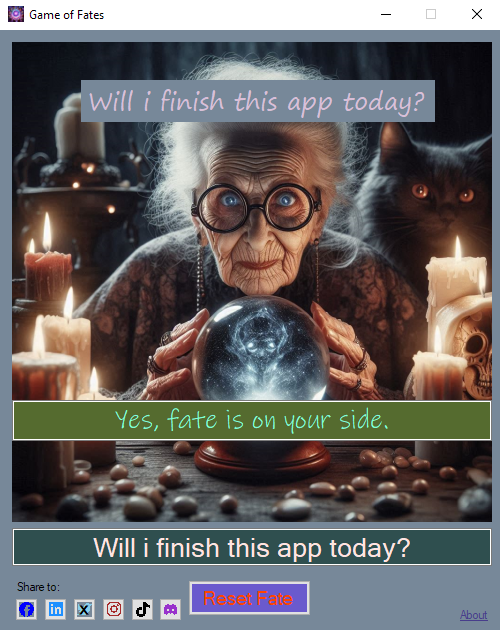
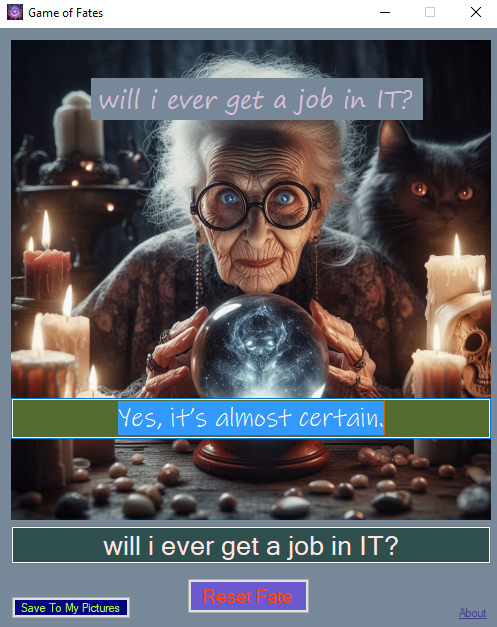
1.0.0.0

diff --git a/GameOfFates.Core/MainForm.Designer.cs b/GameOfFates.Core/MainForm.Designer.cs
@@ -38,13 +38,7 @@
             this.resetButton = new System.Windows.Forms.Button();
             this.linkLabel1 = new System.Windows.Forms.LinkLabel();
             this.labelAfterAsking = new System.Windows.Forms.Label();
-            this.labelShareTo = new System.Windows.Forms.Label();
-            this.buttonFacebook = new FontAwesome.Sharp.IconButton();
-            this.buttonLinkedIn = new FontAwesome.Sharp.IconButton();
-            this.buttonTwitter = new FontAwesome.Sharp.IconButton();
-            this.buttonInstagram = new FontAwesome.Sharp.IconButton();
-            this.buttonTikTok = new FontAwesome.Sharp.IconButton();
-            this.buttonDiscord = new FontAwesome.Sharp.IconButton();
+            this.buttonSaveCard = new System.Windows.Forms.Button();
             ((System.ComponentModel.ISupportInitialize)(this.picBeforeAsking)).BeginInit();
             ((System.ComponentModel.ISupportInitialize)(this.picAfterAsking)).BeginInit();
             this.SuspendLayout();
@@ -94,7 +88,7 @@
             this.predictButton.TabIndex = 5;
             this.predictButton.Text = "Predict!";
             this.predictButton.UseVisualStyleBackColor = false;
-            this.predictButton.Click += new System.EventHandler(this.PredictClick);
+            this.predictButton.Click += new System.EventHandler(this.Predict_Click);
             // 
             // askMeAnythingLabel
             // 
@@ -119,7 +113,7 @@
             this.fateOutputTextBox.ScrollBars = System.Windows.Forms.ScrollBars.Horizontal;
             this.fateOutputTextBox.Size = new System.Drawing.Size(480, 41);
             this.fateOutputTextBox.TabIndex = 7;
-            this.fateOutputTextBox.Text = "...";
+            this.fateOutputTextBox.Text = "The mystic\'s gaze deepens...";
             this.fateOutputTextBox.TextAlign = System.Windows.Forms.HorizontalAlignment.Center;
             this.fateOutputTextBox.Visible = false;
             this.fateOutputTextBox.TextChanged += new System.EventHandler(this.FateAnswer_TextChanged);
@@ -136,7 +130,7 @@
             this.resetButton.Text = "Reset Fate";
             this.resetButton.UseVisualStyleBackColor = false;
             this.resetButton.Visible = false;
-            this.resetButton.Click += new System.EventHandler(this.ResetFateClick);
+            this.resetButton.Click += new System.EventHandler(this.ResetFate_Click);
             // 
             // linkLabel1
             // 
@@ -166,99 +160,18 @@
             this.labelAfterAsking.Visible = false;
             this.labelAfterAsking.Click += new System.EventHandler(this.QuestionAfterBeingAskedLabel);
             // 
-            // labelShareTo
+            // buttonSaveCard
             // 
-            this.labelShareTo.AutoSize = true;
-            this.labelShareTo.Location = new System.Drawing.Point(14, 550);
-            this.labelShareTo.Name = "labelShareTo";
-            this.labelShareTo.Size = new System.Drawing.Size(50, 13);
-            this.labelShareTo.TabIndex = 12;
-            this.labelShareTo.Text = "Share to:";
-            this.labelShareTo.Visible = false;
-            this.labelShareTo.Click += new System.EventHandler(this.labelShareTo_Click);
-            // 
-            // buttonFacebook
-            // 
-            this.buttonFacebook.BackColor = System.Drawing.Color.LightSlateGray;
-            this.buttonFacebook.IconChar = FontAwesome.Sharp.IconChar.Facebook;
-            this.buttonFacebook.IconColor = System.Drawing.Color.Blue;
-            this.buttonFacebook.IconFont = FontAwesome.Sharp.IconFont.Auto;
-            this.buttonFacebook.IconSize = 20;
-            this.buttonFacebook.Location = new System.Drawing.Point(15, 568);
-            this.buttonFacebook.Name = "buttonFacebook";
-            this.buttonFacebook.Size = new System.Drawing.Size(23, 23);
-            this.buttonFacebook.TabIndex = 13;
-            this.buttonFacebook.UseVisualStyleBackColor = false;
-            this.buttonFacebook.Visible = false;
-            // 
-            // buttonLinkedIn
-            // 
-            this.buttonLinkedIn.IconChar = FontAwesome.Sharp.IconChar.Linkedin;
-            this.buttonLinkedIn.IconColor = System.Drawing.Color.DodgerBlue;
-            this.buttonLinkedIn.IconFont = FontAwesome.Sharp.IconFont.Auto;
-            this.buttonLinkedIn.IconSize = 20;
-            this.buttonLinkedIn.Location = new System.Drawing.Point(44, 568);
-            this.buttonLinkedIn.Name = "buttonLinkedIn";
-            this.buttonLinkedIn.Size = new System.Drawing.Size(23, 23);
-            this.buttonLinkedIn.TabIndex = 14;
-            this.buttonLinkedIn.UseVisualStyleBackColor = true;
-            this.buttonLinkedIn.Visible = false;
-            // 
-            // buttonTwitter
-            // 
-            this.buttonTwitter.BackColor = System.Drawing.Color.LightSlateGray;
-            this.buttonTwitter.Font = new System.Drawing.Font("Microsoft Sans Serif", 9.75F, System.Drawing.FontStyle.Bold, System.Drawing.GraphicsUnit.Point, ((byte)(204)));
-            this.buttonTwitter.ForeColor = System.Drawing.Color.Black;
-            this.buttonTwitter.IconChar = FontAwesome.Sharp.IconChar.Twitter;
-            this.buttonTwitter.IconColor = System.Drawing.Color.SkyBlue;
-            this.buttonTwitter.IconFont = FontAwesome.Sharp.IconFont.Auto;
-            this.buttonTwitter.IconSize = 20;
-            this.buttonTwitter.Location = new System.Drawing.Point(73, 568);
-            this.buttonTwitter.Name = "buttonTwitter";
-            this.buttonTwitter.Size = new System.Drawing.Size(23, 23);
-            this.buttonTwitter.TabIndex = 15;
-            this.buttonTwitter.Text = "X";
-            this.buttonTwitter.UseVisualStyleBackColor = false;
-            this.buttonTwitter.Visible = false;
-            // 
-            // buttonInstagram
-            // 
-            this.buttonInstagram.IconChar = FontAwesome.Sharp.IconChar.Instagram;
-            this.buttonInstagram.IconColor = System.Drawing.Color.Brown;
-            this.buttonInstagram.IconFont = FontAwesome.Sharp.IconFont.Auto;
-            this.buttonInstagram.IconSize = 20;
-            this.buttonInstagram.Location = new System.Drawing.Point(102, 568);
-            this.buttonInstagram.Name = "buttonInstagram";
-            this.buttonInstagram.Size = new System.Drawing.Size(23, 23);
-            this.buttonInstagram.TabIndex = 16;
-            this.buttonInstagram.UseVisualStyleBackColor = true;
-            this.buttonInstagram.Visible = false;
-            // 
-            // buttonTikTok
-            // 
-            this.buttonTikTok.IconChar = FontAwesome.Sharp.IconChar.Tiktok;
-            this.buttonTikTok.IconColor = System.Drawing.Color.Black;
-            this.buttonTikTok.IconFont = FontAwesome.Sharp.IconFont.Auto;
-            this.buttonTikTok.IconSize = 20;
-            this.buttonTikTok.Location = new System.Drawing.Point(131, 568);
-            this.buttonTikTok.Name = "buttonTikTok";
-            this.buttonTikTok.Size = new System.Drawing.Size(23, 23);
-            this.buttonTikTok.TabIndex = 17;
-            this.buttonTikTok.UseVisualStyleBackColor = true;
-            this.buttonTikTok.Visible = false;
-            // 
-            // buttonDiscord
-            // 
-            this.buttonDiscord.IconChar = FontAwesome.Sharp.IconChar.Discord;
-            this.buttonDiscord.IconColor = System.Drawing.Color.DarkOrchid;
-            this.buttonDiscord.IconFont = FontAwesome.Sharp.IconFont.Auto;
-            this.buttonDiscord.IconSize = 20;
-            this.buttonDiscord.Location = new System.Drawing.Point(159, 568);
-            this.buttonDiscord.Name = "buttonDiscord";
-            this.buttonDiscord.Size = new System.Drawing.Size(23, 23);
-            this.buttonDiscord.TabIndex = 18;
-            this.buttonDiscord.UseVisualStyleBackColor = true;
-            this.buttonDiscord.Visible = false;
+            this.buttonSaveCard.BackColor = System.Drawing.Color.Navy;
+            this.buttonSaveCard.ForeColor = System.Drawing.Color.GreenYellow;
+            this.buttonSaveCard.Location = new System.Drawing.Point(12, 568);
+            this.buttonSaveCard.Name = "buttonSaveCard";
+            this.buttonSaveCard.Size = new System.Drawing.Size(120, 23);
+            this.buttonSaveCard.TabIndex = 12;
+            this.buttonSaveCard.Text = "Save To My Pictures";
+            this.buttonSaveCard.UseVisualStyleBackColor = false;
+            this.buttonSaveCard.Visible = false;
+            this.buttonSaveCard.Click += new System.EventHandler(this.ButtonSaveFateCard);
             // 
             // MainForm
             // 
@@ -266,13 +179,7 @@
             this.AutoScaleMode = System.Windows.Forms.AutoScaleMode.Font;
             this.BackColor = System.Drawing.Color.LightSlateGray;
             this.ClientSize = new System.Drawing.Size(500, 600);
-            this.Controls.Add(this.buttonDiscord);
-            this.Controls.Add(this.buttonTikTok);
-            this.Controls.Add(this.buttonInstagram);
-            this.Controls.Add(this.buttonTwitter);
-            this.Controls.Add(this.buttonLinkedIn);
-            this.Controls.Add(this.buttonFacebook);
-            this.Controls.Add(this.labelShareTo);
+            this.Controls.Add(this.buttonSaveCard);
             this.Controls.Add(this.labelAfterAsking);
             this.Controls.Add(this.linkLabel1);
             this.Controls.Add(this.resetButton);
@@ -304,13 +211,6 @@
         private System.Windows.Forms.Button resetButton;
         private System.Windows.Forms.LinkLabel linkLabel1;
         private System.Windows.Forms.Label labelAfterAsking;
-        private System.Windows.Forms.Label labelShareTo;
-        private FontAwesome.Sharp.IconButton buttonFacebook;
-        private FontAwesome.Sharp.IconButton buttonLinkedIn;
-        private FontAwesome.Sharp.IconButton buttonTwitter;
-        private FontAwesome.Sharp.IconButton buttonInstagram;
-        private FontAwesome.Sharp.IconButton buttonTikTok;
-        private FontAwesome.Sharp.IconButton buttonDiscord;
+        private System.Windows.Forms.Button buttonSaveCard;
     }
 }
-

diff --git a/GameOfFates.Core/MainForm.cs b/GameOfFates.Core/MainForm.cs
@@ -31,6 +31,17 @@
             PictureBoxBeforeAsking(sender, e);
             PictureBoxAfterAsking(sender, e);
             predictButton.Enabled = false;
+            userInputTextBox.KeyDown += UserInputTextBox_KeyDown;
+        }
+
+        private void UserInputTextBox_KeyDown(object sender, KeyEventArgs e)
+        {
+            if (e.KeyCode == Keys.Enter)
+            {
+                e.Handled = true;
+                e.SuppressKeyPress = true;
+                Predict_Click(sender, e);
+            }
         }
 
         private void PictureBoxBeforeAsking(object sender, EventArgs e)
@@ -55,63 +66,50 @@
 
         private void TextBox_TextChanged(object sender, EventArgs e) => predictButton.Enabled = !string.IsNullOrWhiteSpace(userInputTextBox.Text);
         #region Buttons
-        private async void PredictClick(object sender, EventArgs e)
+        private async void Predict_Click(object sender, EventArgs e)
         {
             List<string> fates = LoadAnswers();
+            string soundPath = @"..\..\Resources\Sounds\predictSound.wav";
+            Random randomFate = new Random();
+            int indexFates = randomFate.Next(fates.Count);
 
+            fateOutputTextBox.Visible = true;
             predictButton.Visible = false;
             askMeAnythingLabel.Visible = false;
             picAfterAsking.Visible = true;
             resetButton.Visible = true;
-            fateOutputTextBox.Visible = true;
 
             labelAfterAsking.Text = userInputTextBox.Text;
             labelAfterAsking.AutoSize = true;
             ChangeLabelPosToCenter(labelAfterAsking);
             labelAfterAsking.Visible = true;
 
-            string soundPath = @"..\..\Resources\Sounds\predictSound.wav";
             await PlaySoundEffectAsync(soundPath);
-            backgroundSound.PlayLooping();
-            Random randomFate = new Random();
-            int indexFates = randomFate.Next(fates.Count);
             fateOutputTextBox.Text = fates[indexFates];
+            buttonSaveCard.Visible = true;
 
-            labelShareTo.Visible = true;
-            buttonFacebook.Visible = true;
-            buttonLinkedIn.Visible = true;
-            buttonTwitter.Visible = true;
-            buttonInstagram.Visible = true;
-            buttonTikTok.Visible = true;
-            buttonDiscord.Visible = true;
+            backgroundSound.PlayLooping();
         }
 
-        private async void ResetFateClick(object sender, EventArgs e)
+        private async void ResetFate_Click(object sender, EventArgs e)
         {
             predictButton.Visible = true;
             askMeAnythingLabel.Visible = true;
             picAfterAsking.Visible = false;
             resetButton.Visible = false;
-            fateOutputTextBox.Text = string.Empty;
+            fateOutputTextBox.Text = "Listening to the whispers of fate...";
             fateOutputTextBox.Visible = false;
             labelAfterAsking.Text = string.Empty;
             labelAfterAsking.Visible = false;
             userInputTextBox.Text = string.Empty;
-            labelShareTo.Visible = false;
-            buttonFacebook.Visible = false;
-            buttonLinkedIn.Visible = false;
-            buttonTwitter.Visible = false;
-            buttonInstagram.Visible = false;
-            buttonTikTok.Visible = false;
-            buttonDiscord.Visible = false;
+            buttonSaveCard.Visible = false;
 
             string soundPath = @"..\..\Resources\Sounds\resetSound.wav";
             await PlaySoundEffectAsync(soundPath);
             backgroundSound.PlayLooping();
         }
-        #endregion
-        #region Extension Methods
-        private void ShareFateToSocialNetwork()
+
+        private void ButtonSaveFateCard(object sender, EventArgs e)
         {
             Bitmap screenshot = new Bitmap(picAfterAsking.Width, picAfterAsking.Height);
             using (Graphics graphics = Graphics.FromImage(screenshot))
@@ -123,19 +121,14 @@
                 );
             }
 
-            string downloadsFolder = Environment.GetFolderPath(Environment.SpecialFolder.UserProfile);
-            string tempFilePath = Path.Combine(downloadsFolder, "screenshot.png");
+            string userFolder = Environment.GetFolderPath(Environment.SpecialFolder.MyPictures);
+            string tempFilePath = Path.Combine(userFolder, "fateScreenshot.png");
             screenshot.Save(tempFilePath, ImageFormat.Png);
 
-            ShareToSocialNetwork(tempFilePath);
-
-            File.Delete(tempFilePath);
+            System.Diagnostics.Process.Start("explorer.exe", $"/select,\"{tempFilePath}\"");
         }
-
-        private void ShareToSocialNetwork(string filePath)
-        {
-
-        }
+        #endregion
+        #region Extension Methods
 
         private async Task PlaySoundEffectAsync(string soundPath)
         {
@@ -178,10 +171,6 @@
         }
 
         private void LabelAskMe(object sender, EventArgs e)
-        {
-        }
-
-        private void labelShareTo_Click(object sender, EventArgs e)
         {
         }
         #endregion

diff --git a/GameOfFates.Core/Program.cs b/GameOfFates.Core/Program.cs
@@ -1,16 +1,10 @@
 namespace GameOfFates.Core
 {
     using System;
-    using System.Collections.Generic;
-    using System.Linq;
-    using System.Threading.Tasks;
     using System.Windows.Forms;
 
     internal static class Program
     {
-        /// <summary>
-        /// The main entry point for the application.
-        /// </summary>
         [STAThread]
         static void Main()
         {
